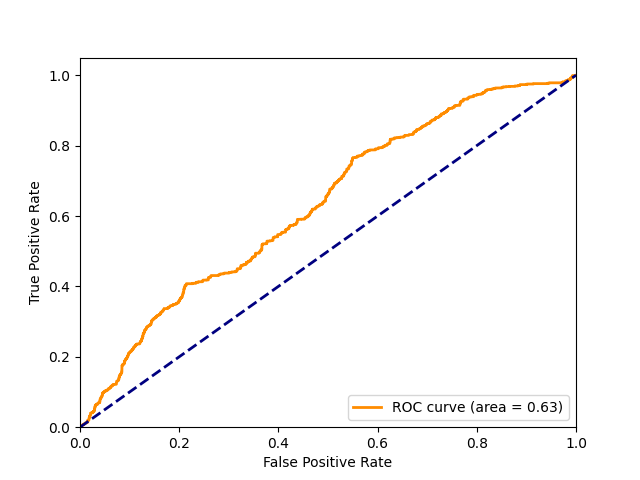
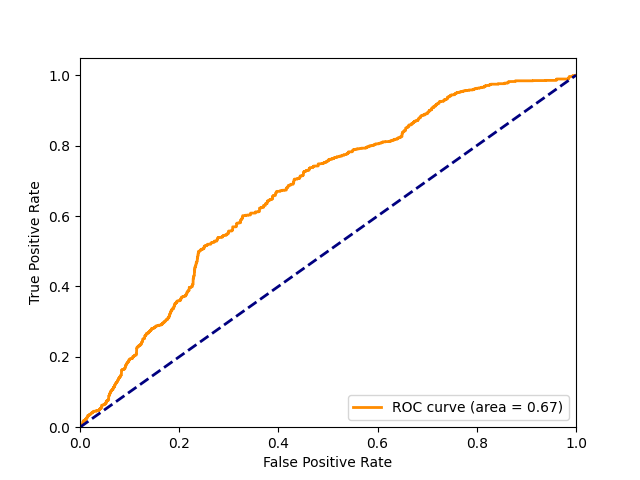
update triplet sampling

diff --git a/network/triplet_loss.py b/network/triplet_loss.py
@@ -34,6 +34,8 @@ def triplet_objective(normalized_embeddings, y_true):
 
     positive_frames = anomal_segments_embeddings[tp_frame_mask].view(n_anom_video, -1,
                                                                      embed_dim)  # (batch/2,top_anomaly_frames, embed_dim)
+    #positive_frames = anomal_segments_embeddings[:, 1:1+n_anom_video, :].view(n_anom_video, -1, embed_dim)
+    
     """
     Prepare negative (normal) frames embeddings
     To do that we pick N=top_normal_frames frames from normal videos that are distant from the anchors
@@ -59,6 +61,62 @@ def triplet_objective(normalized_embeddings, y_true):
     Smoothness of anomalous video
     """
     smoothed_scores = positive_frames[:, 1:] - positive_frames[:, :-1]
+    smoothed_scores_sum_squared = smoothed_scores.pow(2).sum(dim=-1)
+
+    """
+    Sparsity of anomalous video
+    """
+    # sparsity_loss = anomal_segments_scores.sum(dim=-1)
+
+    final_loss = (triplet_loss + lambdas * smoothed_scores_sum_squared).mean()
+    return final_loss
+
+
+def triplet_objective_sampling(normalized_embeddings, y_true, lambdas=8e-5, top_anomaly_frames=3, top_normal_frames=3, margin=0.2):
+    # normalized_embeddings (batch_size, 32, embed_dim)
+    # y_true (batch_size)
+    
+    normal_vids_indices = torch.where(y_true == 0)
+    anomal_vids_indices = torch.where(y_true == 1)
+
+    normal_segments_embeddings = normalized_embeddings[normal_vids_indices].squeeze(-1)  # (batch/2, 32, embed_dim)
+    anomal_segments_embeddings = normalized_embeddings[anomal_vids_indices].squeeze(-1)  # (batch/2, 32, embed_dim)
+
+    # anchors are the frame 0 of the normal video
+    anchors = normal_segments_embeddings[:, :1, :]  # (batch/2, 1, embed_dim)
+
+    """
+    Prepare positive frames embeddings
+    To do that we pick N frames from normal video that are near from the corresponding anchor
+    """
+    n_norm_video, n_frames, embed_dim = normal_segments_embeddings.shape
+    positive_frames = normal_segments_embeddings[:, 1:1+top_normal_frames, :].view(n_norm_video, -1, embed_dim)
+    
+    """
+    Prepare negative (normal) frames embeddings
+    To do that we pick N=top_normal_frames frames from normal videos that are distant from the anchors
+    Here we calculate pairwise distance to pick hard negative examples for each anchor
+    """
+    n_anom_video, _, _ = anomal_segments_embeddings.shape
+    fp_frame_inds = torch.cdist(anomal_segments_embeddings, anchors).argsort(dim=1)[:, -top_anomaly_frames:, 0]
+    fp_frame_mask = torch.zeros((n_anom_video, n_frames), dtype=torch.bool).to(anomal_segments_embeddings.device)
+    for row_idx in range(fp_frame_inds.shape[0]):
+        for col_idx in fp_frame_inds[row_idx]:
+            fp_frame_mask[row_idx, col_idx] = True
+
+    negative_frames = anomal_segments_embeddings[fp_frame_mask].view(n_anom_video, -1,
+                                                                     embed_dim)  # (batch/2,top_anomaly_frames, embed_dim)
+    
+    """
+    Triplet loss
+    """
+    triplet_loss = (positive_frames - anchors).pow(2).sum(-1).mean() \
+                    - (negative_frames - anchors).pow(2).sum(-1).mean() + margin
+    triplet_loss = torch.relu(triplet_loss)
+    """
+    Smoothness of anomalous video
+    """
+    smoothed_scores = anomal_segments_embeddings[:, 1:] - anomal_segments_embeddings[:, :-1]
     smoothed_scores_sum_squared = smoothed_scores.pow(2).sum(dim=-1)
 
     """

diff --git a/generate_ROC.py b/generate_ROC.py
@@ -10,7 +10,7 @@ from sklearn.metrics import roc_curve, auc
 import matplotlib.pyplot as plt
 from os import path
 import numpy as np
-
+from scipy import spatial
 
 def get_args():
     parser = argparse.ArgumentParser(description="PyTorch Video Classification Parser")
@@ -35,8 +35,8 @@ def get_centroids(model, data_iter):
     device = torch.device("cuda" if torch.cuda.is_available()
                           else "cpu")
     
-    normal_embed = np.zeros(128)
-    anomaly_embed = np.zeros(128)
+    normal_embed = None
+    anomaly_embed = None
     
     n_normal = 0
     n_anomaly = 0
@@ -51,9 +51,16 @@ def get_centroids(model, data_iter):
             embed = outputs.mean(1).cpu().numpy()
             y_true = labels.cpu().numpy()
             
-            normal_embed += embed[y_true == 0].mean(0)
-            anomaly_embed += embed[y_true == 1].mean(0)
-            
+            if normal_embed is None:
+                normal_embed = embed[y_true == 0].mean(0)
+            else:
+                normal_embed += embed[y_true == 0].mean(0)
+                
+            if anomaly_embed is None:
+                anomaly_embed = embed[y_true == 1].mean(0)
+            else:
+                anomaly_embed += embed[y_true == 1].mean(0)
+
             n_normal += (y_true == 0).sum()
             n_anomaly += (y_true == 1).sum()
 
@@ -97,7 +104,8 @@ if __name__ == "__main__":
     y_trues = torch.tensor([])
     y_preds = torch.tensor([])
     
-    centroids = get_centroids(model, train_data_iter)
+    if args.calc_mode == 'triplet_centroid':
+        centroids = get_centroids(model, train_data_iter)
 
     with torch.no_grad():
         for features, start_end_couples, lengths in tqdm(data_iter):
@@ -119,9 +127,10 @@ if __name__ == "__main__":
                 for i in range(32):
                     segment_start_frame = i * segments_len
                     segment_end_frame = (i + 1) * segments_len
-                    if args.calc_mode == 'triplet':
-                        #y_pred[segment_start_frame: segment_end_frame] = ((output[i] - output[0])**2).sum(-1)
+                    if args.calc_mode == 'triplet_centroid':
                         y_pred[segment_start_frame: segment_end_frame] = ((output[i] - centroids[0])**2).sum(-1)
+                    elif args.calc_mode == 'triplet':
+                        y_pred[segment_start_frame: segment_end_frame] = ((output[i] - output[0])**2).sum(-1)
                     else: # default MIL calculation
                         y_pred[segment_start_frame: segment_end_frame] = output[i]
 

diff --git a/TrainingAnomalyDetector_public.py b/TrainingAnomalyDetector_public.py
@@ -10,7 +10,7 @@ from features_loader import FeaturesLoader
 from network.TorchUtils import TorchModel
 from network.anomaly_detector_model import AnomalyDetector, custom_objective, RegularizedLoss
 from network.triplet_anomaly_detector_model import TripletAnomalyDetector
-from network.triplet_loss import triplet_objective
+from network.triplet_loss import triplet_objective, triplet_objective_sampling
 from utils.callbacks import DefaultModelCallback, TensorBoardCallback
 from utils.utils import register_logger, get_torch_device
 
@@ -18,9 +18,9 @@ custom_namespace = {
     'TripletAnomalyDetector': TripletAnomalyDetector,
     'AnomalyDetector': AnomalyDetector,
     'custom_objective': custom_objective,
-    'triplet_objective': triplet_objective
+    'triplet_objective': triplet_objective,
+    'triplet_objective_sampling': triplet_objective_sampling
 }
-
 
 def get_args():
     parser = argparse.ArgumentParser(description="PyTorch Video Classification Parser")
